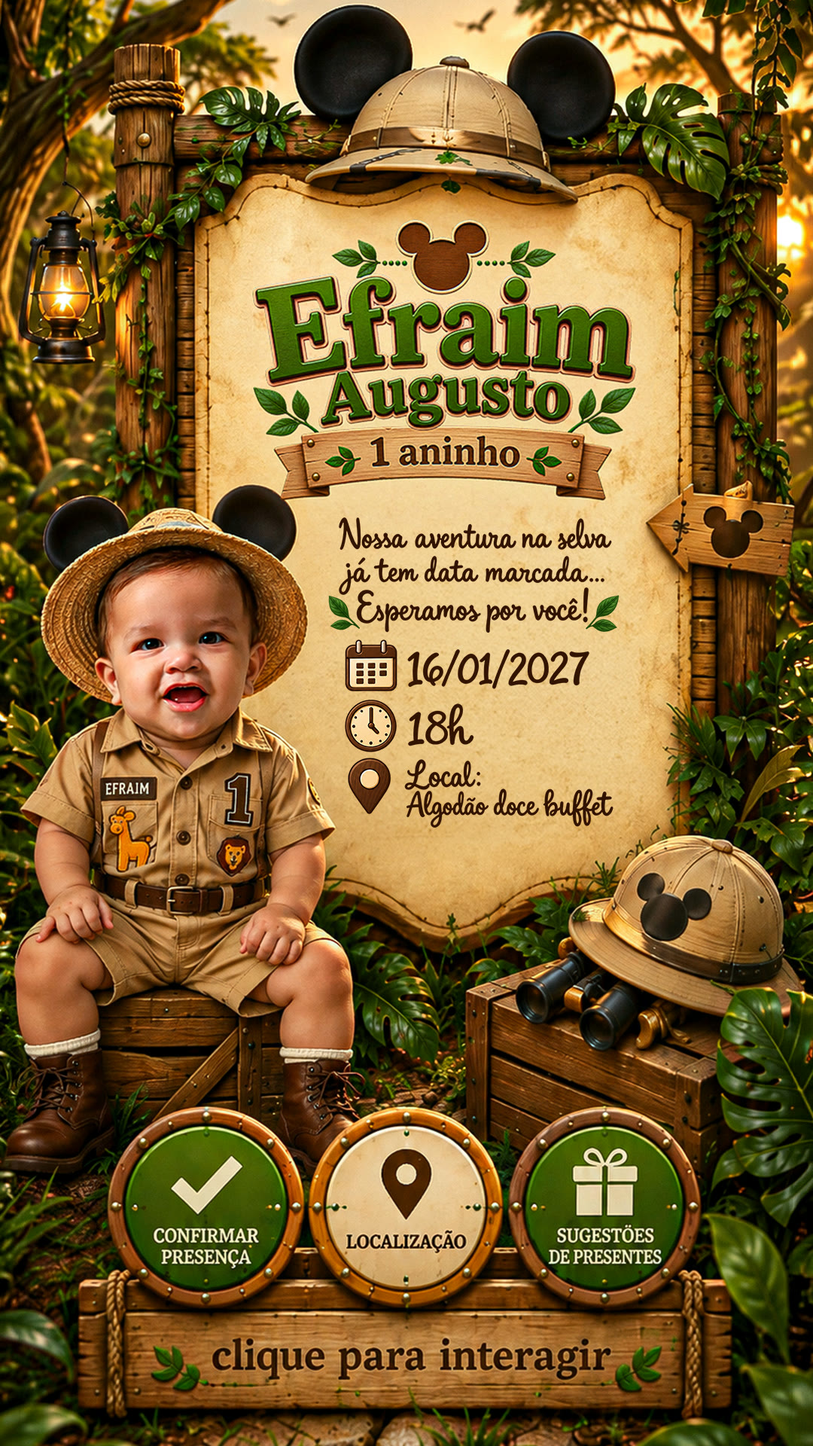
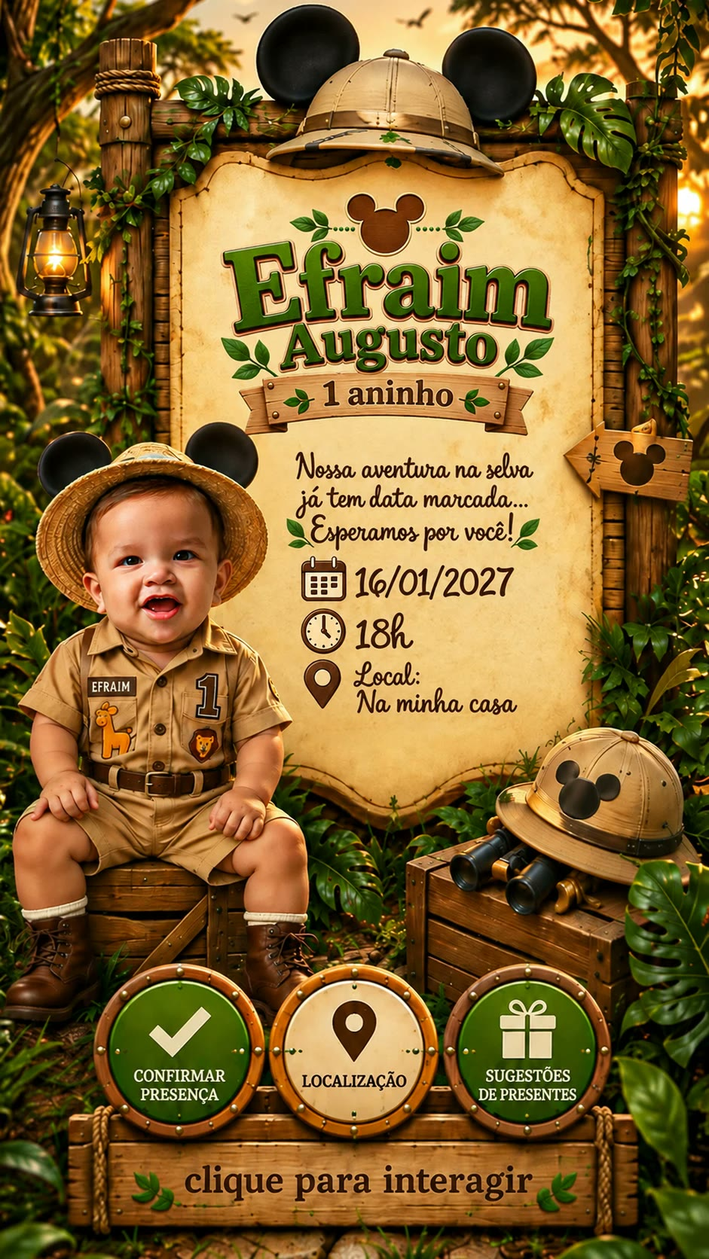
Add files via upload

diff --git a/config.js b/config.js
@@ -38,10 +38,10 @@ window.CONVITE = {
       imagem: "pagina1.jpg",
       botoes: [
         { rotulo: "Confirmar presença",
-          href: "https://wa.me/5588996653004?text=Ol%C3%A1!%20%E2%9C%A8%20Confirmamos%2C%20com%20muita%20alegria%2C%20nossa%20presen%C3%A7a%20na%20celebra%C3%A7%C3%A3o%20do%201%C2%BA%20anivers%C3%A1rio%20do%20Efraim.%20Ser%C3%A1%20uma%20honra%20brindar%20esse%20momento%20t%C3%A3o%20especial!%20%F0%9F%A5%82",
+          href: "https://wa.me/5588981503683?text=Ol%C3%A1!%20%E2%9C%A8%20Confirmamos%2C%20com%20muita%20alegria%2C%20nossa%20presen%C3%A7a%20na%20celebra%C3%A7%C3%A3o%20do%201%C2%BA%20anivers%C3%A1rio%20do%20Efraim.%20Ser%C3%A1%20uma%20honra%20brindar%20esse%20momento%20t%C3%A3o%20especial!%20%F0%9F%A5%82",
           left: 14, top: 79, width: 22, height: 14 },
         { rotulo: "Localização",
-          href: "https://share.google/vLKFVnV4Y1CINQvgQ",
+          href: "https://www.google.com/maps/search/?api=1&query=Rua%20L3%20-%20Cinobilina%20Callou%2C%2097A%2C%20Cirolandia%2C%20Barbalha%20-%20Ceara",
           left: 38.5, top: 79, width: 22, height: 14 },
         { rotulo: "Sugestões de presentes", acao: "imagem", imagem: "presentes.jpg",
           left: 63.5, top: 79, width: 22, height: 14 }

diff --git a/index.html b/index.html
@@ -110,7 +110,7 @@
 
 <audio id="musica" loop preload="auto"></audio>
 
-<script src="config.js?v=3"></script>
+<script src="config.js?v=4"></script>
 <script>
 (function(){
   const C = window.CONVITE || {};
